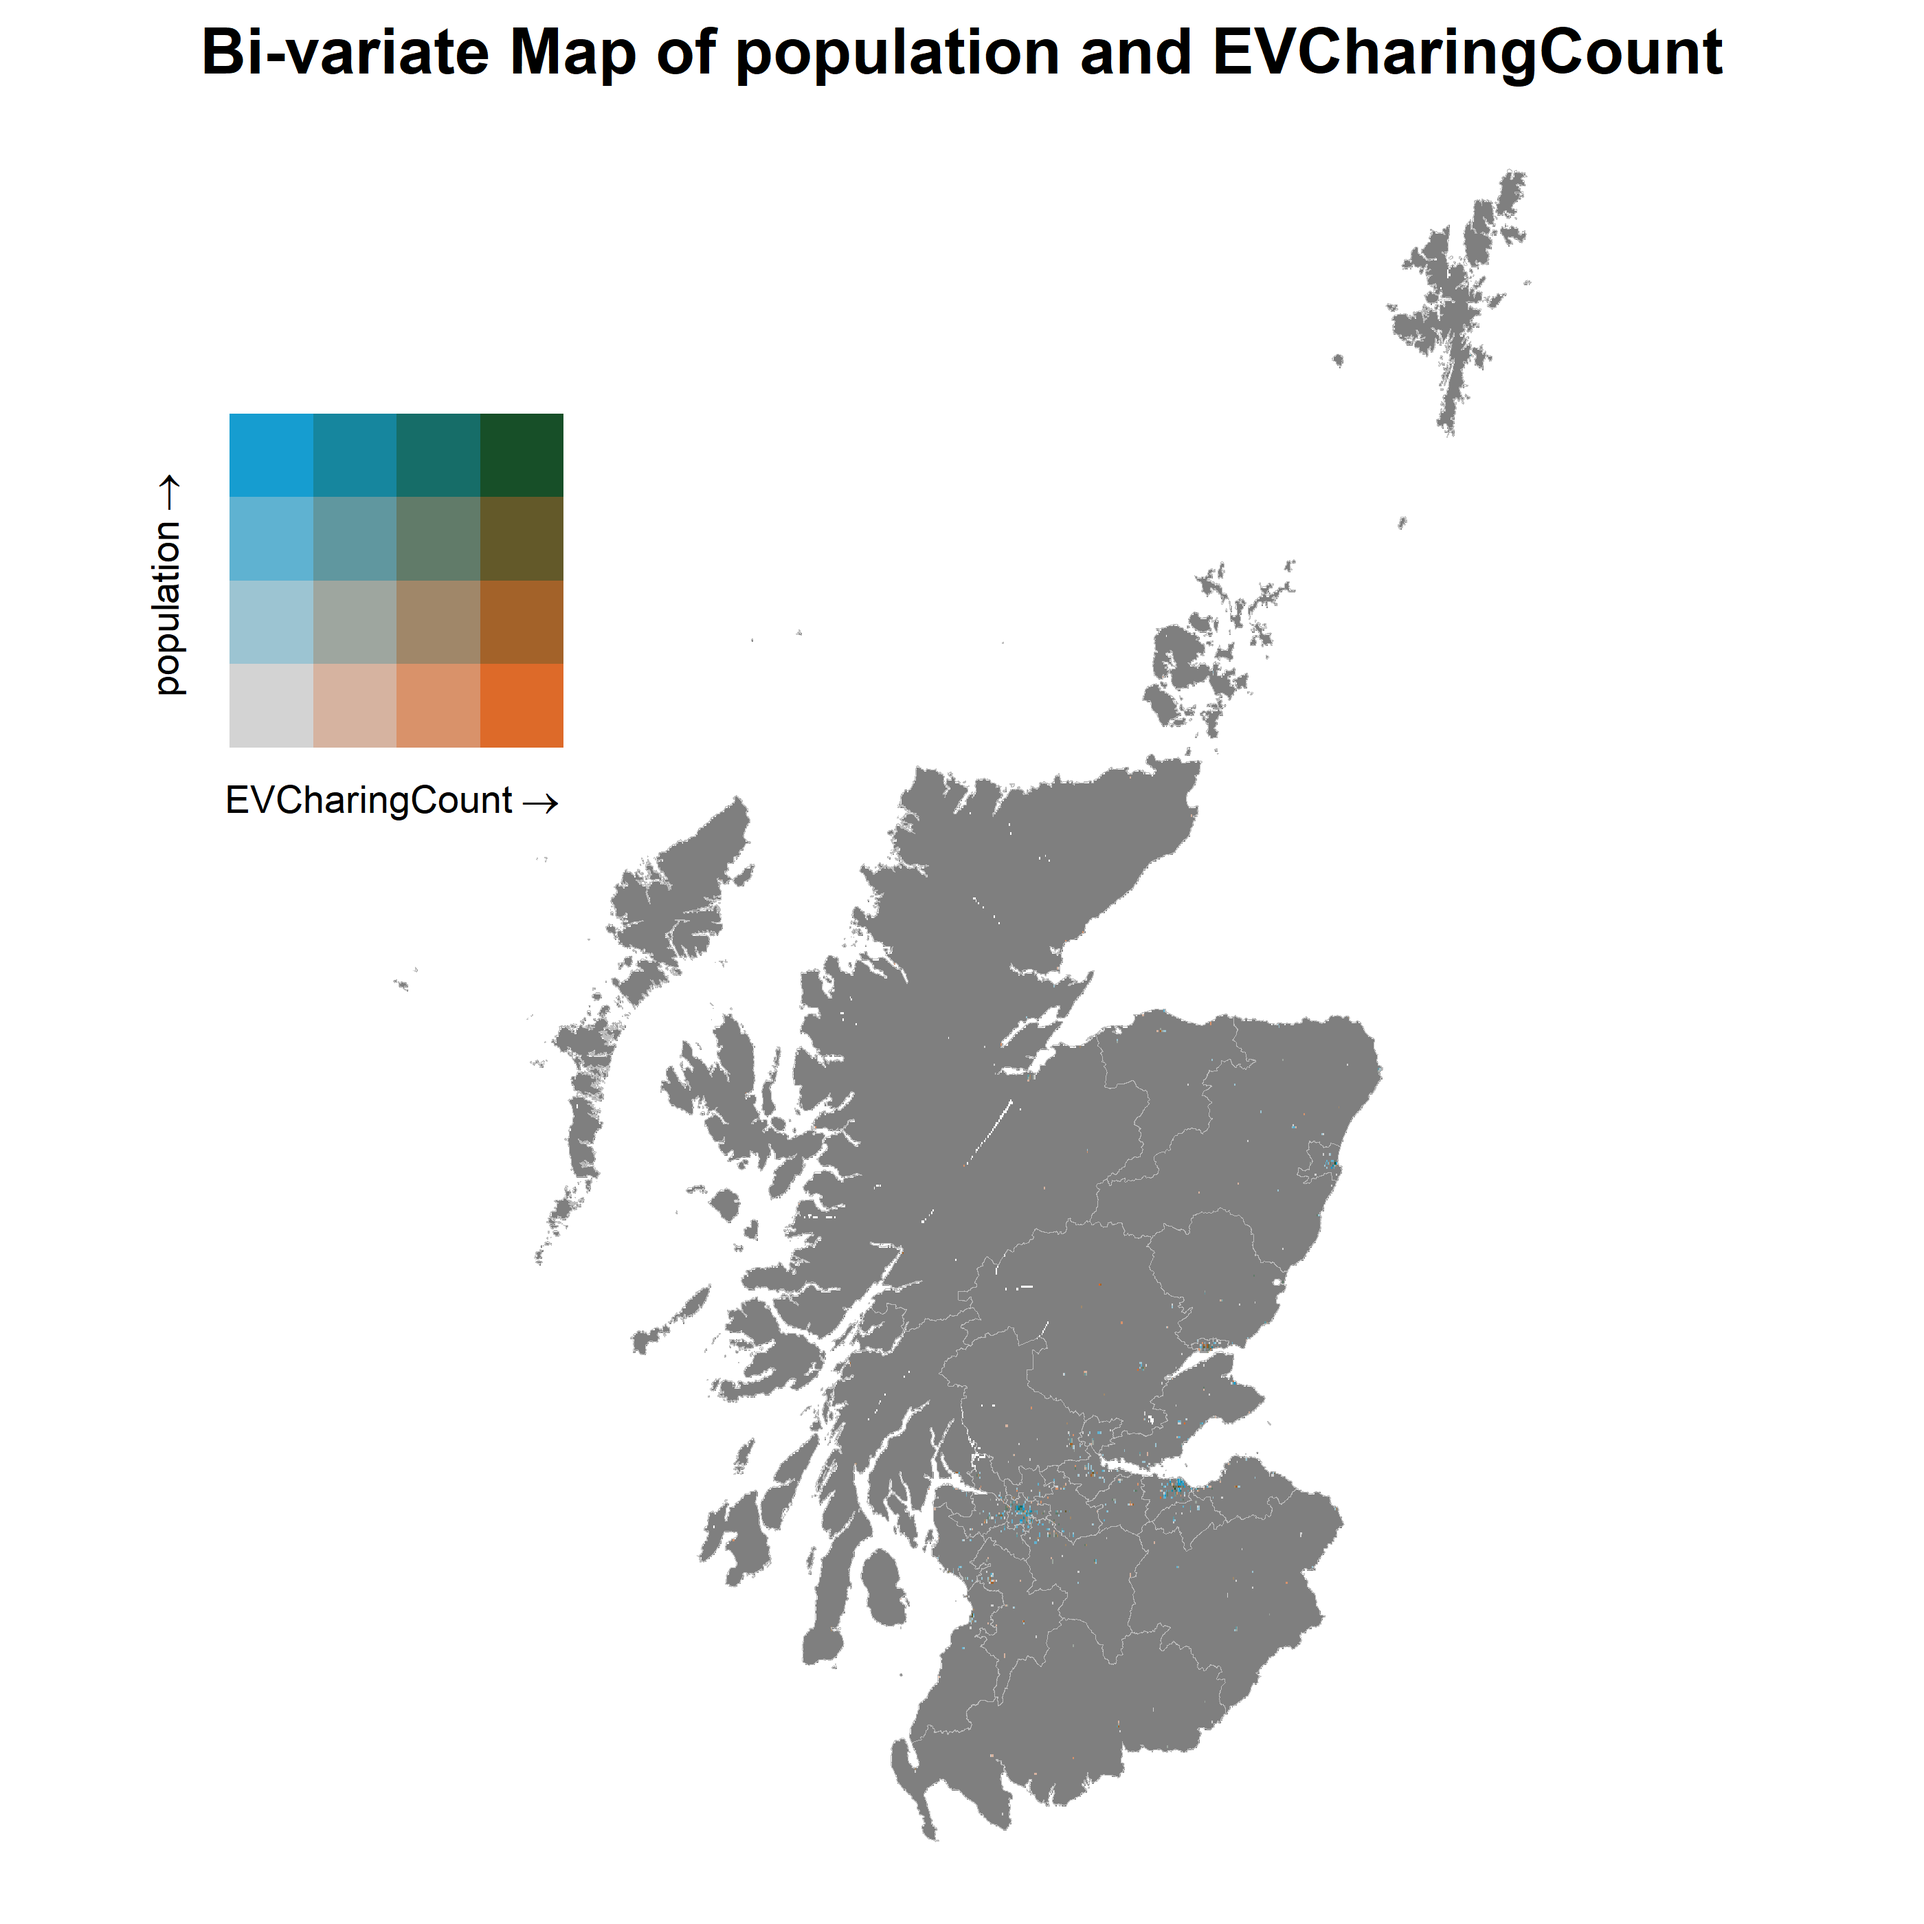
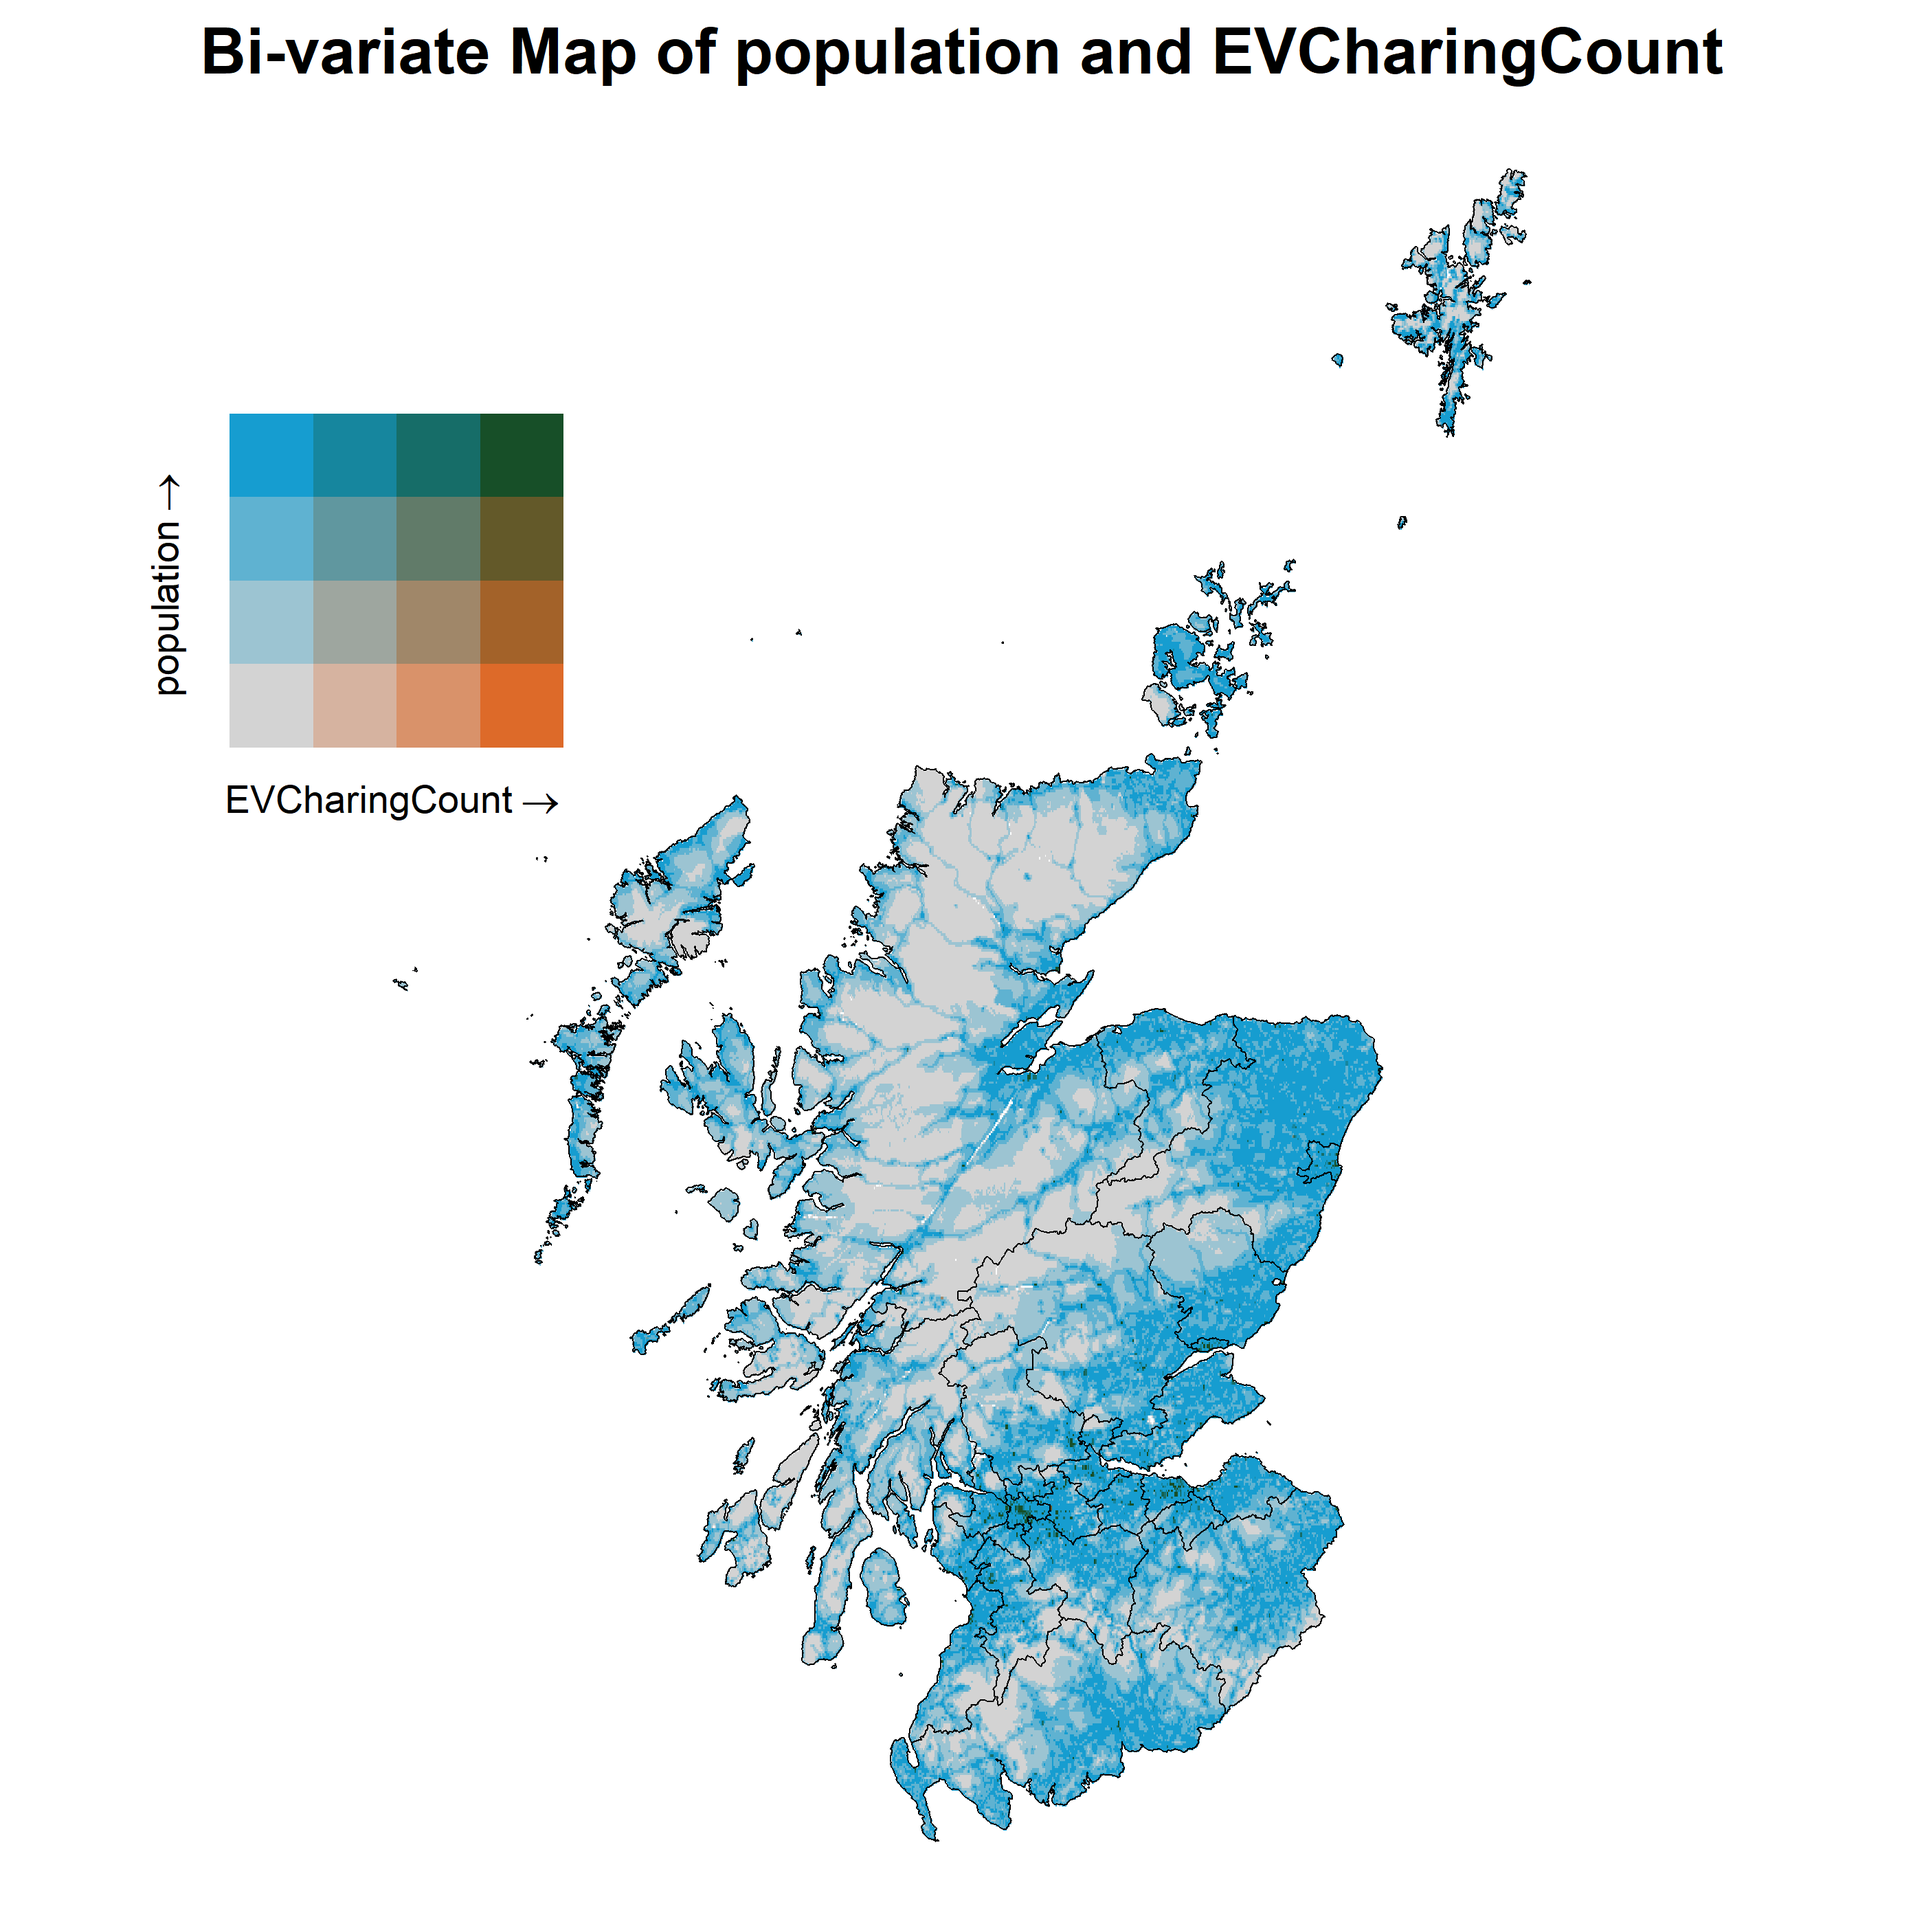
优化双变量分析中的手动分段逻辑，添加生成间断点的功能，更新可视化参数

Changed region(s): [[0.2796, 0.2796, 0.7146, 0.9632], [0.7146, 0.0932, 0.8079, 0.2175], [0.3107, 0.6836, 0.3418, 0.7146]]

diff --git a/python/quantile.py b/python/quantile.py
@@ -1,0 +1,119 @@
+import numpy as np
+import pandas as pd
+import os
+import matplotlib.pyplot as plt
+
+DIR = os.path.dirname(__file__)
+
+DATA_DIR = os.path.join(DIR, '..', 'data')
+DATA_DIR2 = os.path.join(DATA_DIR, '人口-充电桩双变量地图')
+SAVE_PATH4 = os.path.join(DATA_DIR2, 'normalized.csv')
+
+
+
+def generate_breaks(data, quantiles):
+    """
+    生成间断点（忽略最小值）
+    
+    参数:
+    data (list or np.array): 输入数据
+    quantiles (list): 分位数列表，例如 [0, 0.25, 0.5, 0.75, 1]
+    
+    返回:
+    breaks (list): 生成的间断点
+    """
+    # 计算分位数
+    breaks = np.quantile(data, quantiles)
+    
+    # 忽略最小值（第一个元素）
+    breaks = breaks[1:]
+    
+    return breaks.tolist()
+
+def generate_breaks2(data, num_breaks):
+    """
+    生成间断点（忽略最小值），确保尽可能多的点有颜色
+    
+    参数:
+    data (list or np.array): 输入数据
+    num_breaks (int): 区间数量（每个方向的分段数）
+    
+    返回:
+    breaks (list): 生成的间断点
+    """
+    # 计算分位数
+    quantiles = np.linspace(0, 1, num_breaks + 1)  # 生成均匀分位数
+    breaks = np.quantile(data, quantiles)
+    
+    # 忽略最小值（第一个元素）
+    breaks = breaks[1:]
+    
+    return breaks.tolist()
+
+def generate_breaks3(data, intervals=4):
+    """
+    生成间断点（忽略最小值），用于双变量地图的分区间
+    
+    参数:
+    data (list or np.array): 输入数据
+    intervals (int): 区间数量，默认为 4
+    
+    返回:
+    breaks (list): 生成的间断点
+    """
+    # 计算分位数
+    quantiles = np.linspace(0, 1, intervals + 1)  # 生成 [0, 0.25, 0.5, 0.75, 1] 的分位数
+    breaks = np.quantile(data, quantiles)
+    
+    # 忽略最小值（第一个元素）
+    breaks = breaks[1:]
+    
+    return breaks.tolist()
+
+def bar_chart(df,name):
+    # 绘制柱状图
+    plt.hist(df, bins=20, color='steelblue', edgecolor='black')
+    plt.title(name)
+    plt.xlabel('Value')
+    plt.ylabel('Frequency')
+    plt.show()
+
+
+
+
+
+
+# # 示例数据
+# population = [0, 0.0001, 0.182, 0.379, 1]
+# ev_charging_count = [0, 0.0001, 0.095, 0.224, 1]
+
+# # 定义分位数
+# quantiles = [0, 0.25, 0.5, 0.75, 1]
+
+# # 生成间断点
+# breaks_x = generate_breaks(population, quantiles)
+# breaks_y = generate_breaks(ev_charging_count, quantiles)
+
+# print("Breaks for population:", breaks_x)
+# print("Breaks for EV Charging Count:", breaks_y)
+
+if __name__ == "__main__":
+    df = pd.read_csv(SAVE_PATH4)
+    # print(df.head())
+    # 分别统计 Z 和 evse_count 两列的分位数间断点
+    # breaks_x = generate_breaks(df['Z'], [0, 0.1, 0.25, 0.5, 0.75, 1])
+    # breaks_y = generate_breaks(df['evse_count'][df['evse_count'] > 0] , [0, 0.1, 0.25, 0.5, 0.75, 1])
+
+    # breaks_x = generate_breaks2(df['Z'], 5)
+    # breaks_y = generate_breaks2(df['evse_count'][df['evse_count'] > 0], 5)
+
+    breaks_x = generate_breaks3(df['Z'], 4)
+    breaks_y = generate_breaks3(df['evse_count'][df['evse_count'] > 0], 4)
+
+
+    print("Breaks for Z:", breaks_x)
+    print("Breaks for EV Charging Count:", breaks_y)
+
+    # # 绘制柱状图
+    # bar_chart(df['Z'][df['Z'] > 0], 'Breaks for Z')
+    # bar_chart(df['evse_count'][df['evse_count'] > 0], 'Breaks for EV Charging Count')
